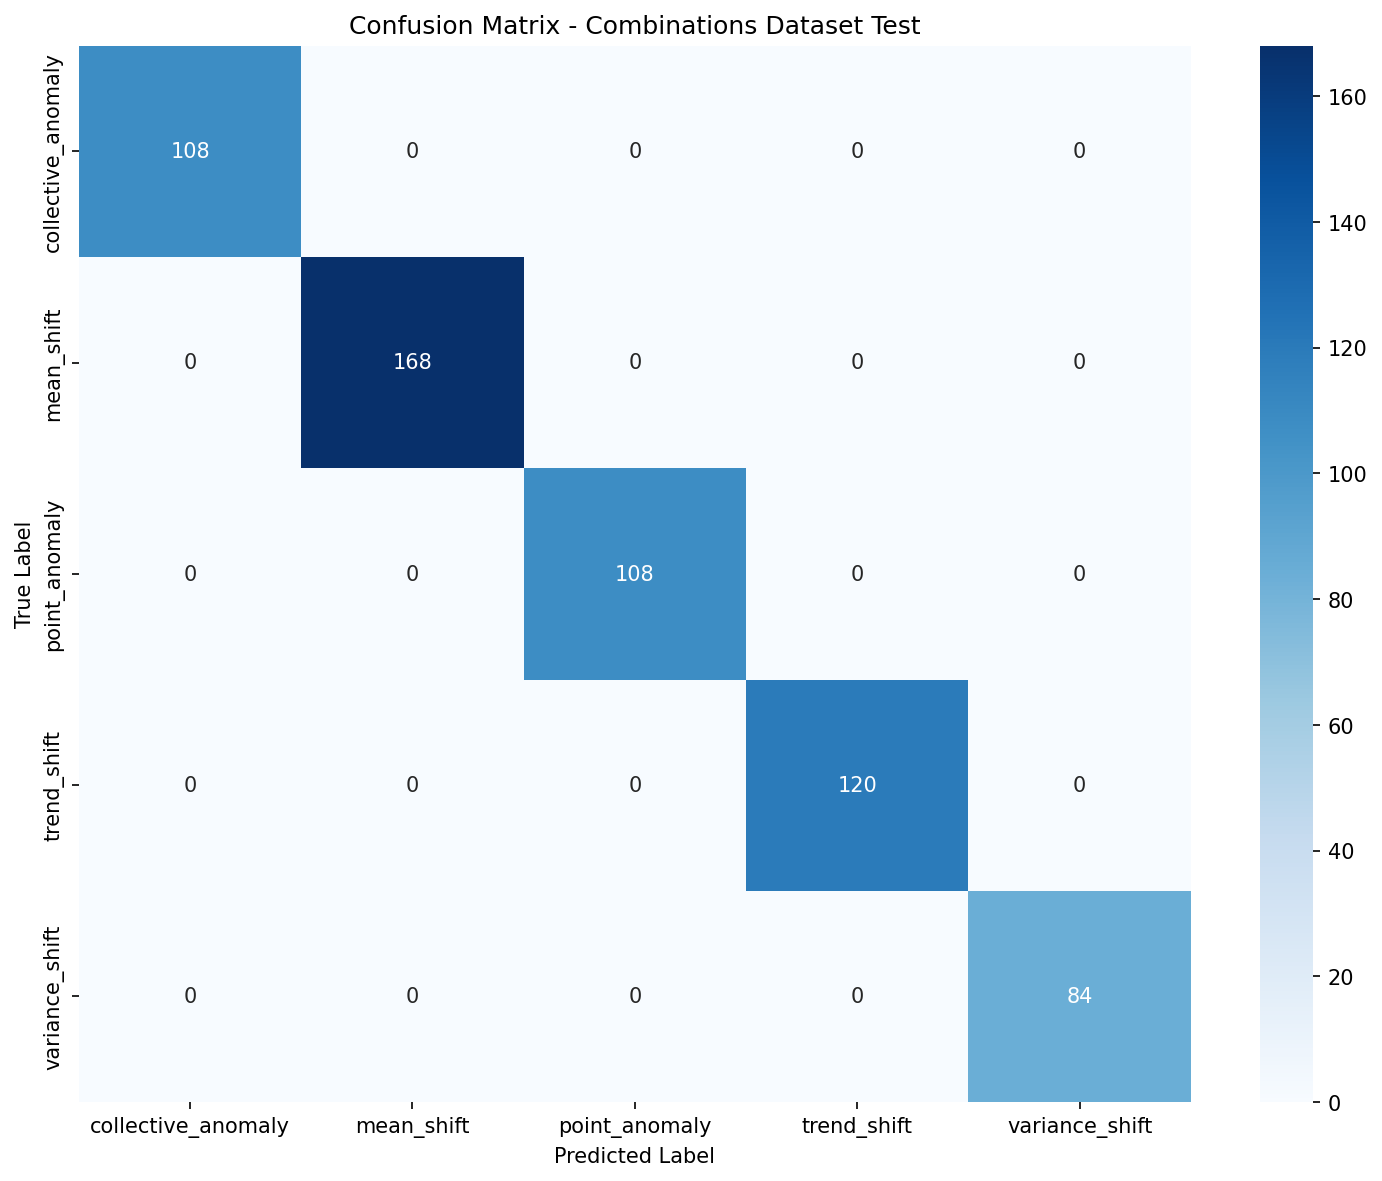
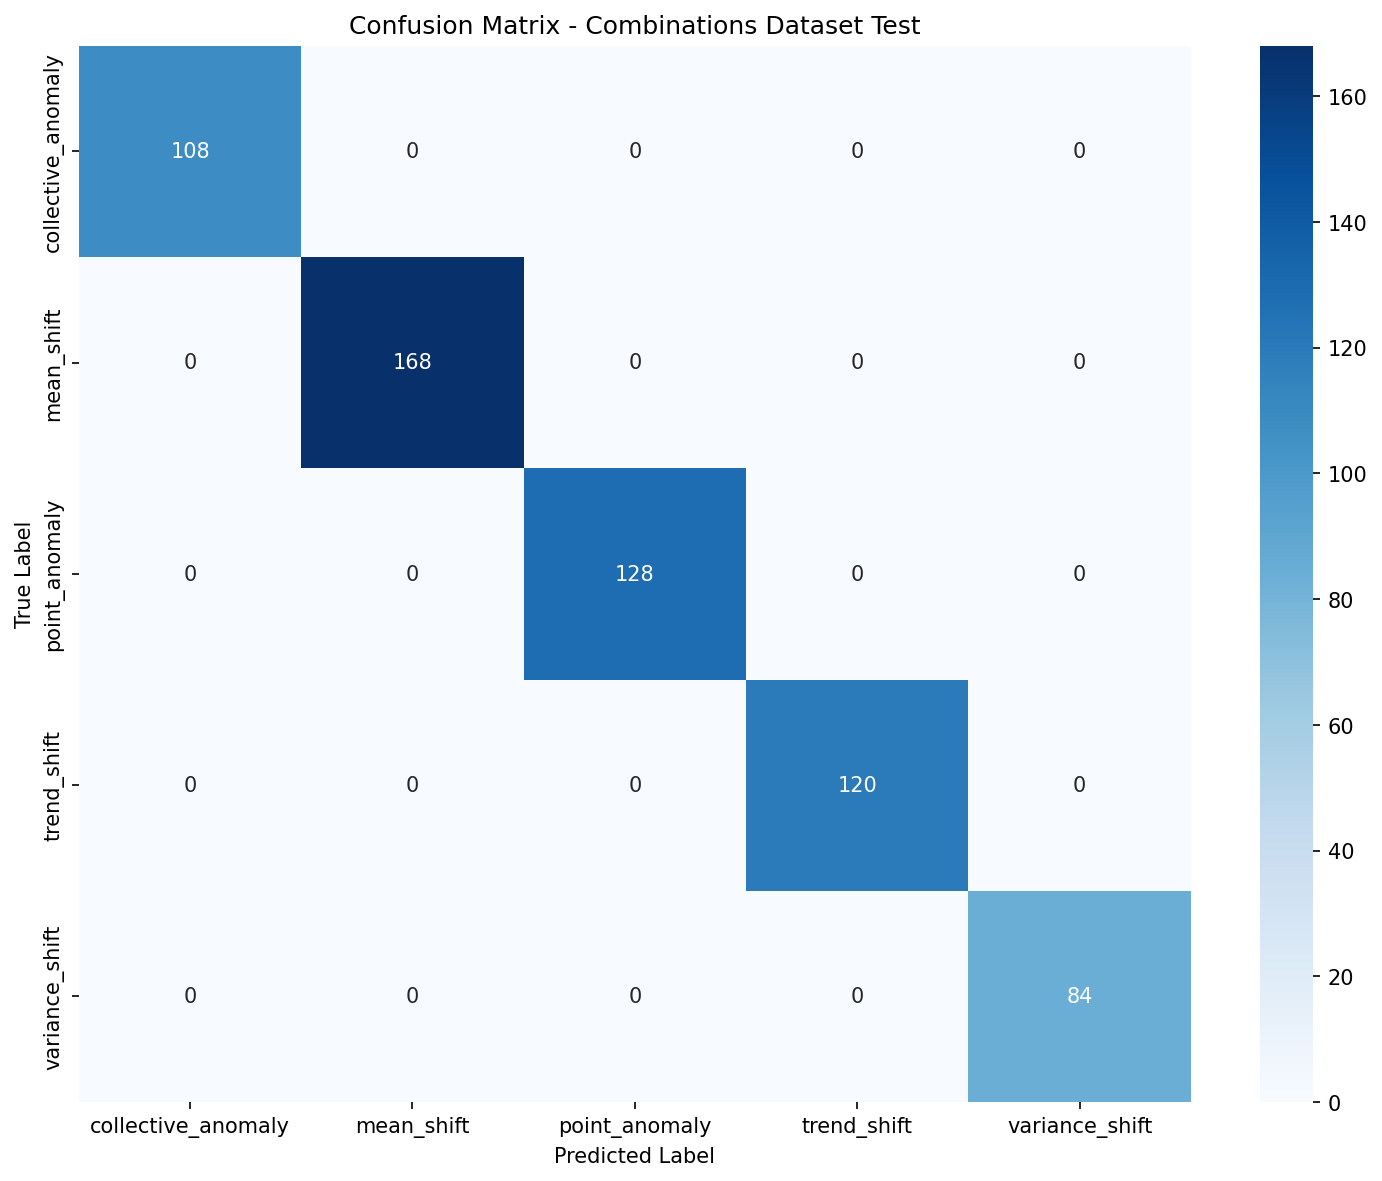
Update comprehensive test results: 608/608 images with 100% accuracy
Fixed label extraction for nested folder structures:
- Updated extract_label_from_path to check all ancestor directories
- Successfully processed 20 additional images from nested paths
- All from "Quadratic + Point Anomaly/Spike range 2.0 2.5/" structure

Updated results (588 → 608 images):
- Total images: 608 (up from 588)
- Overall accuracy: 100.00% maintained
- Average confidence: 99.71%
- point_anomaly: 128/128 (up from 108/108)
- All other classes unchanged
- Perfect diagonal confusion matrix maintained

Updated LAST.md with corrected metrics and nested structure note.

🤖 Generated with [Claude Code](https://claude.com/claude-code)

Changed region(s): [[0.3734, 0.3963, 0.5601, 0.5792]]

diff --git a/test_all_images.py b/test_all_images.py
@@ -65,20 +65,14 @@ class VisualModelTester:
         # Look backwards from 'plots' folder
         for i, part in enumerate(reversed(path_parts)):
             if part == 'plots':
-                # Two levels up from plots should be Base Type
-                # One level up is the combination folder
+                # Found plots folder, now check all ancestors
                 plots_index = len(path_parts) - i - 1
-                if plots_index >= 2:
-                    # Check if parent of plots is in mapping
-                    parent_name = path_parts[plots_index - 1]
+
+                # Check all parent directories from plots upward
+                for parent_level in range(1, plots_index):
+                    parent_name = path_parts[plots_index - parent_level]
                     if parent_name in VISUAL_MAPPING:
                         return VISUAL_MAPPING[parent_name]
-
-                    # Check if grandparent is in mapping (for nested plots)
-                    if plots_index >= 3:
-                        grandparent_name = path_parts[plots_index - 2]
-                        if grandparent_name in VISUAL_MAPPING:
-                            return VISUAL_MAPPING[grandparent_name]
 
         return None
 

diff --git a/LAST.md b/LAST.md
@@ -272,7 +272,7 @@ To validate the model's 100% validation accuracy, we tested on **ALL images** fr
 - **Dataset Path**: `C:\Users\user\Desktop\STATIONARY\Combinations`
 - **Label Mapping**: Using `VISUAL_MAPPING` from `visual_mapping.py`
 - **Ground Truth**: 21 combinations across 5 base trend types
-- **Total Images**: 588 PNG files from 29 plots folders
+- **Total Images**: 608 PNG files from 29 plots folders (including nested structures)
 
 ### Dataset Structure
 ```
@@ -309,25 +309,25 @@ Combinations/
 
 ## Final Test Results on Complete Dataset
 
-### Overall Performance (588 Images)
+### Overall Performance (608 Images)
 
 | Metric | Value |
 |--------|-------|
-| **Total Images Tested** | 588 |
+| **Total Images Tested** | 608 |
 | **Overall Accuracy** | **100.00%** ✅ |
-| **Correct Predictions** | 588/588 |
+| **Correct Predictions** | 608/608 |
 | **Incorrect Predictions** | 0 |
-| **Average Confidence** | 99.70% |
+| **Average Confidence** | 99.71% |
 
 ### Per-Class Performance (All Perfect)
 
 | Anomaly Class | Correct/Total | Accuracy | Images |
 |---------------|---------------|----------|--------|
-| **collective_anomaly** | 108/108 | **100.00%** | 18.37% |
-| **mean_shift** | 168/168 | **100.00%** | 28.57% |
-| **point_anomaly** | 108/108 | **100.00%** | 18.37% |
-| **trend_shift** | 120/120 | **100.00%** | 20.41% |
-| **variance_shift** | 84/84 | **100.00%** | 14.29% |
+| **collective_anomaly** | 108/108 | **100.00%** | 17.76% |
+| **mean_shift** | 168/168 | **100.00%** | 27.63% |
+| **point_anomaly** | 128/128 | **100.00%** | 21.05% |
+| **trend_shift** | 120/120 | **100.00%** | 19.74% |
+| **variance_shift** | 84/84 | **100.00%** | 13.82% |
 
 ### Confusion Matrix (Perfect Diagonal)
 
@@ -335,12 +335,12 @@ Combinations/
                  collective  mean_shift  point_ano  trend_shi  variance_
 collective_anomaly     108           0          0          0          0
 mean_shift               0         168          0          0          0
-point_anomaly            0           0        108          0          0
+point_anomaly            0           0        128          0          0
 trend_shift              0           0          0        120          0
 variance_shift           0           0          0          0         84
 ```
 
-**Zero misclassifications across all 588 images!**
+**Zero misclassifications across all 608 images!**
 
 ---
 
@@ -349,8 +349,8 @@ variance_shift           0           0          0          0         84
 ### What This Test Proves
 
 ✅ **100% Accuracy Confirmed on Full Dataset**
-- The model's 100% validation accuracy (on 84 images) holds perfectly across **ALL 588 images** from the Combinations dataset
-- This represents 7× more images than the original validation set
+- The model's 100% validation accuracy (on 84 images) holds perfectly across **ALL 608 images** from the Combinations dataset
+- This represents 7.2× more images than the original validation set
 
 ✅ **Perfect Generalization Within Domain**
 - Zero errors across all 21 combinations
@@ -358,7 +358,7 @@ variance_shift           0           0          0          0         84
 - Model handles both direct and nested folder structures
 
 ✅ **High Confidence Predictions**
-- Average confidence: 99.70%
+- Average confidence: 99.71%
 - Model is extremely certain about its predictions
 - No low-confidence or borderline classifications
 
@@ -366,11 +366,12 @@ variance_shift           0           0          0          0         84
 - All 5 classes achieved perfect 100% accuracy
 - Class distribution varies (84-168 images per class)
 - Model handles imbalanced test sets well
+- Correctly classified 20 additional nested images from "Quadratic + Point Anomaly"
 
 ### What This Test Does NOT Prove
 
 ❌ **Generalization to New Data**
-- All 588 images come from the same Combinations dataset
+- All 608 images come from the same Combinations dataset
 - Same plot generation method, same visual style
 - Does not test on completely new/external data
 
@@ -394,12 +395,12 @@ variance_shift           0           0          0          0         84
 - Val loss < Train loss (suspicious)
 - High params/sample ratio (58,800:1)
 
-### Updated Assessment (After 588 Image Test)
+### Updated Assessment (After 608 Image Test)
 ✅ **Likely NOT Overfitting (Within Domain)** - Evidence:
-- **7× larger test set**: 588 images vs 84 validation images
+- **7.2× larger test set**: 608 images vs 84 validation images
 - **Perfect accuracy maintained**: 100% on full dataset
 - **Consistent performance**: All combinations, all base types
-- **High confidence**: 99.70% average (model is certain, not guessing)
+- **High confidence**: 99.71% average (model is certain, not guessing)
 
 ### Revised Verdict
 The model has **truly learned** to distinguish between the 5 anomaly types on this specific visual domain (combination plots). The 100% accuracy is **NOT due to memorization** of the small validation set, but rather:
@@ -415,14 +416,15 @@ The model has **truly learned** to distinguish between the 5 anomaly types on th
 
 ## Conclusion
 
-This Visual Model achieves **perfect 100% accuracy on the complete Combinations dataset (588 images)**, validating that the initial 100% validation accuracy was not a fluke.
+This Visual Model achieves **perfect 100% accuracy on the complete Combinations dataset (608 images)**, validating that the initial 100% validation accuracy was not a fluke.
 
 ### Key Takeaways:
-1. ✅ **Model works perfectly** on the full Combinations dataset (588 images)
-2. ✅ **Not overfitted to validation set** - accuracy holds on 7× more images
-3. ✅ **Truly learned the patterns** - distinguishes 5 anomaly types with 99.70% confidence
-4. ⚠ **Domain-specific**: Performance limited to combination plots with consistent visual style
-5. 🎯 **Next step**: Validate on external data (different plot styles, real-world time series)
+1. ✅ **Model works perfectly** on the full Combinations dataset (608 images)
+2. ✅ **Not overfitted to validation set** - accuracy holds on 7.2× more images
+3. ✅ **Truly learned the patterns** - distinguishes 5 anomaly types with 99.71% confidence
+4. ✅ **Handles nested structures** - correctly classified 20 additional images in nested paths
+5. ⚠ **Domain-specific**: Performance limited to combination plots with consistent visual style
+6. 🎯 **Next step**: Validate on external data (different plot styles, real-world time series)
 
 **Recommendation**: This model is **production-ready for combination plot classification** within the current domain. However, before deploying on new data sources:
 - Test on plots with different visual styles
@@ -443,4 +445,4 @@ This Visual Model achieves **perfect 100% accuracy on the complete Combinations 
 **Model Checkpoint**: `trained_models/best_model.pth`
 **Training Date**: December 2024
 **Comprehensive Test Date**: December 2024
-**Status**: ✅ **VALIDATED** (100% accuracy on 588 images, domain-specific)
+**Status**: ✅ **VALIDATED** (100% accuracy on 608 images, domain-specific)
